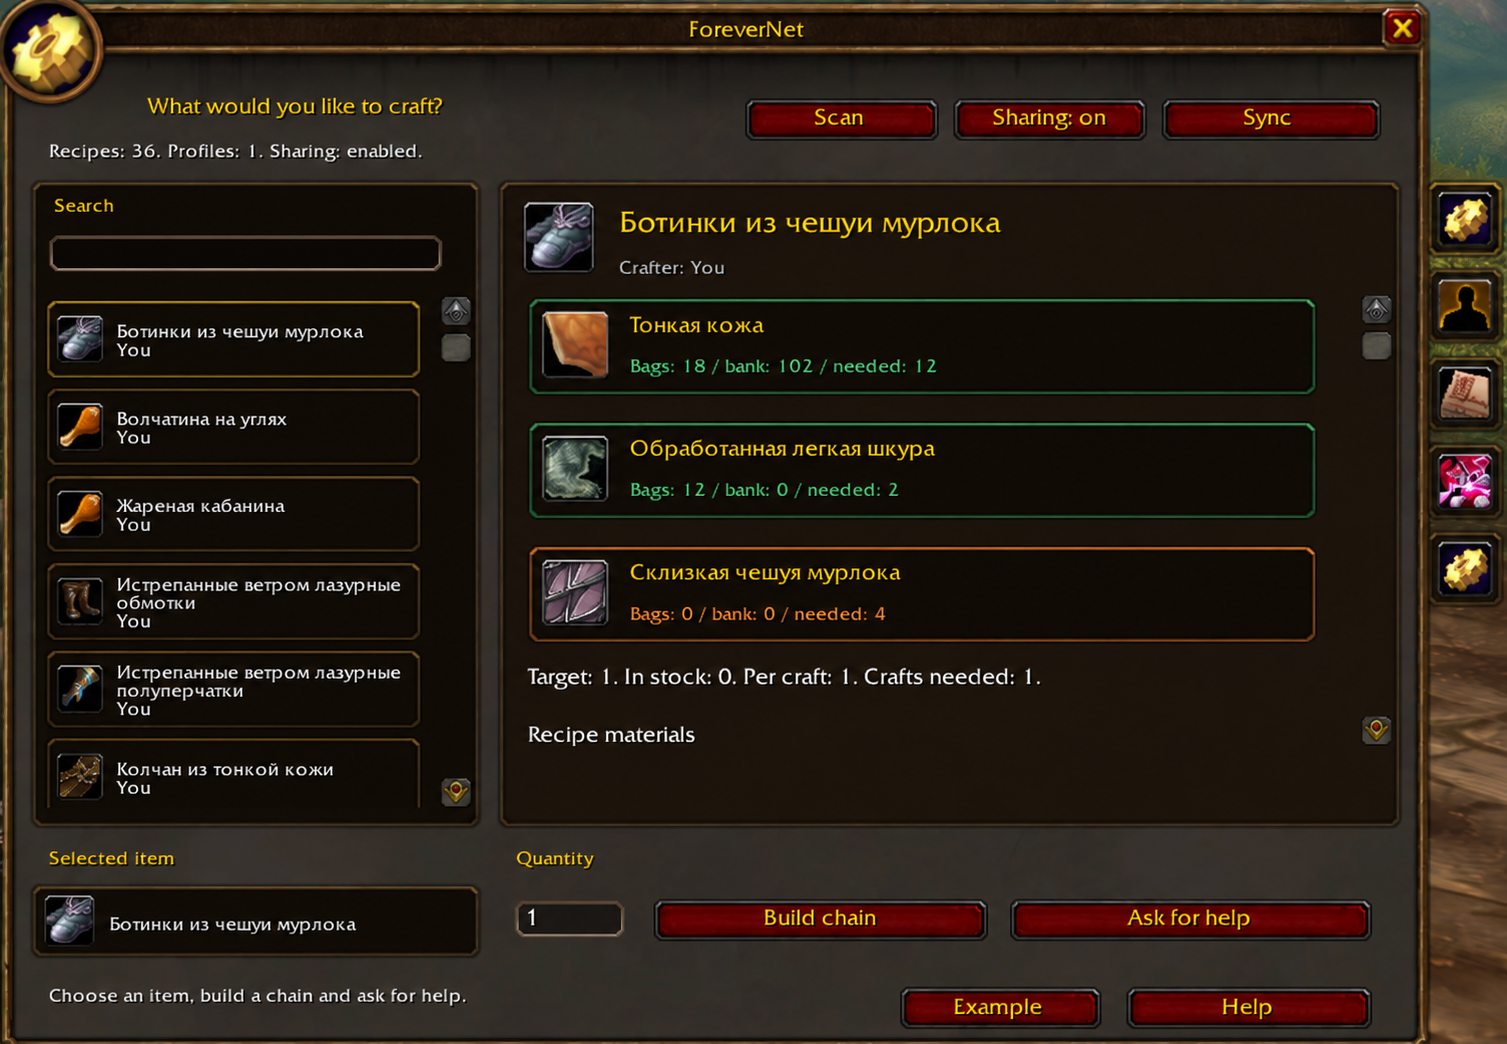
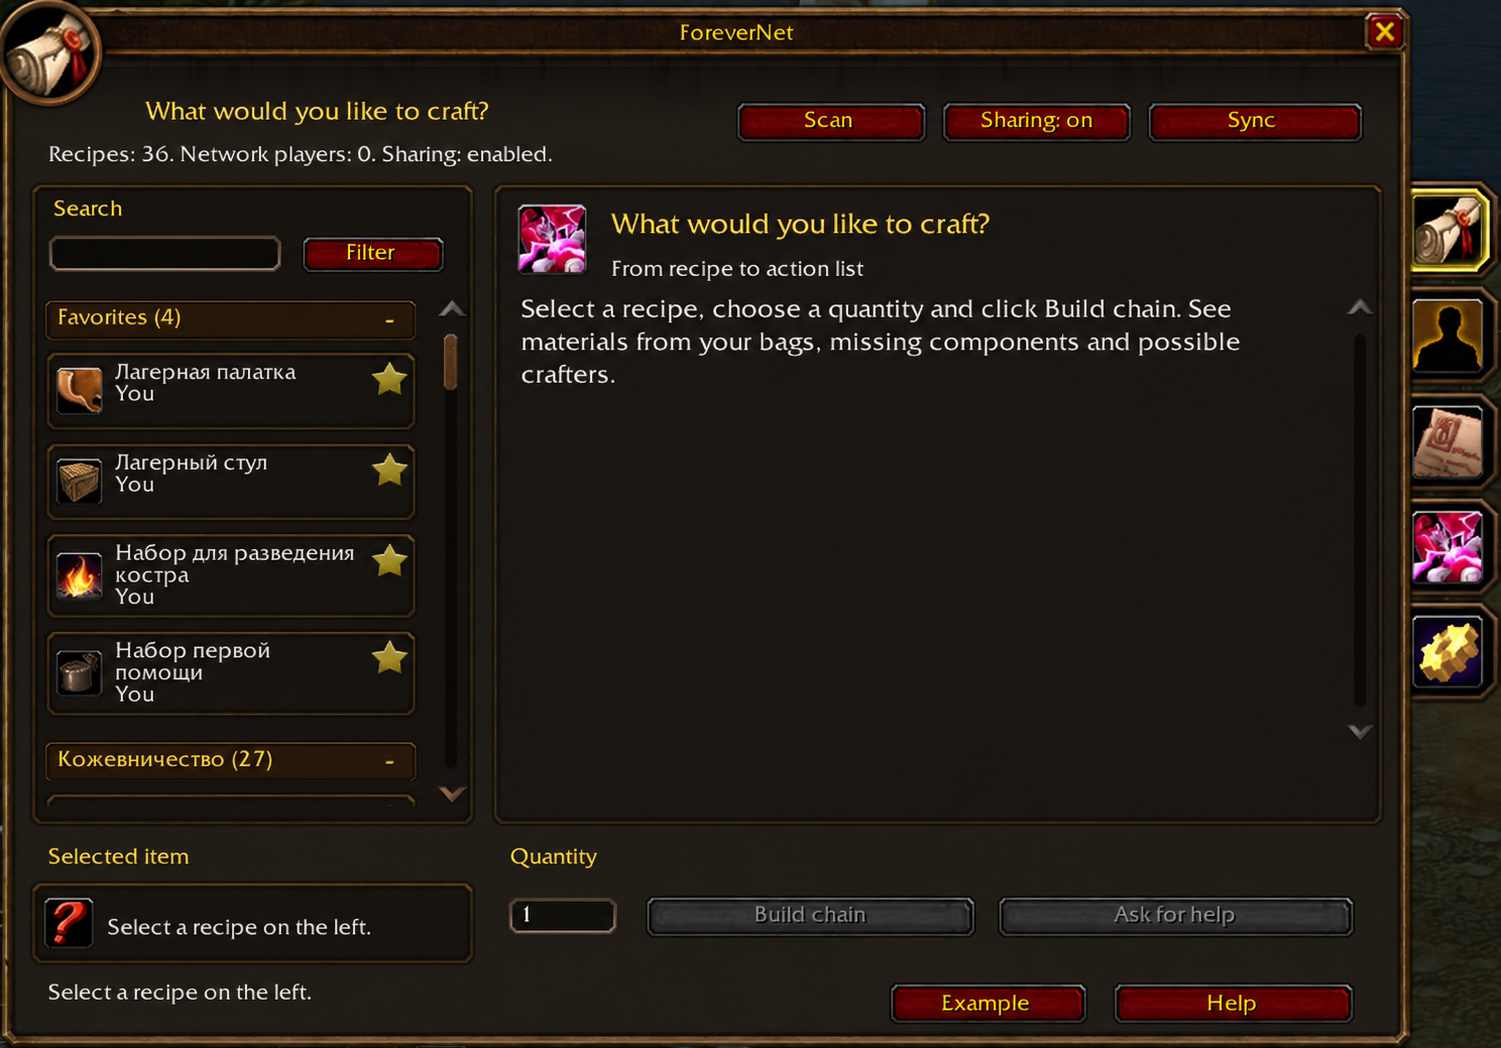
Refresh README screenshots and add language and update windows

Changed region(s): [[0.0, 0.0, 1.0, 1.0], [0.5823, 0.6437, 0.6742, 0.6743], [0.3371, 0.7969, 0.3984, 0.8276]]

diff --git a/README.md b/README.md
@@ -33,21 +33,29 @@ ForeverNet connects profession profiles within your guild or group. Select an it
 
 ### Screenshots
 
-**Recipe catalog and material stock**
+**Recipe catalog and favorites**
 
-![Recipe catalog and material stock](docs/screenshots/recipes.png)
+<img src="docs/screenshots/recipes.png" alt="Recipe catalog and favorites" width="832">
 
 **Production chain example**
 
-![Production chain example](docs/screenshots/production-chain.png)
+<img src="docs/screenshots/production-chain.png" alt="Production chain example" width="832">
 
 **Guild and group network**
 
-![Guild and group network](docs/screenshots/network.png)
+<img src="docs/screenshots/network.png" alt="Guild and group network" width="827">
 
 **Settings and addon information**
 
-![Settings and addon information](docs/screenshots/settings.png)
+<img src="docs/screenshots/settings.png" alt="Settings and addon information" width="528">
+
+**Interface language selection**
+
+<img src="docs/screenshots/languages.png" alt="Interface language selection, including Korean and Chinese" width="493">
+
+**Addon update information**
+
+<img src="docs/screenshots/updates.png" alt="Addon update information and download instructions" width="563">
 
 ### Installation
 
@@ -179,21 +187,29 @@ ForeverNet объединяет профили профессий участни
 
 ### Скриншоты
 
-**Каталог рецептов и запасы материалов**
+**Каталог рецептов и избранное**
 
-![Каталог рецептов и запасы материалов](docs/screenshots/recipes.png)
+<img src="docs/screenshots/recipes.png" alt="Каталог рецептов и избранное" width="832">
 
 **Пример производственной цепочки**
 
-![Пример производственной цепочки](docs/screenshots/production-chain.png)
+<img src="docs/screenshots/production-chain.png" alt="Пример производственной цепочки" width="832">
 
 **Сеть гильдии и группы**
 
-![Сеть гильдии и группы](docs/screenshots/network.png)
+<img src="docs/screenshots/network.png" alt="Сеть гильдии и группы" width="827">
 
 **Настройки и информация об аддоне**
 
-![Настройки и информация об аддоне](docs/screenshots/settings.png)
+<img src="docs/screenshots/settings.png" alt="Настройки и информация об аддоне" width="528">
+
+**Выбор языка интерфейса**
+
+<img src="docs/screenshots/languages.png" alt="Выбор языка интерфейса, включая корейский и китайский" width="493">
+
+**Информация об обновлениях аддона**
+
+<img src="docs/screenshots/updates.png" alt="Информация об обновлениях аддона и инструкция по скачиванию" width="563">
 
 ### Установка
 
